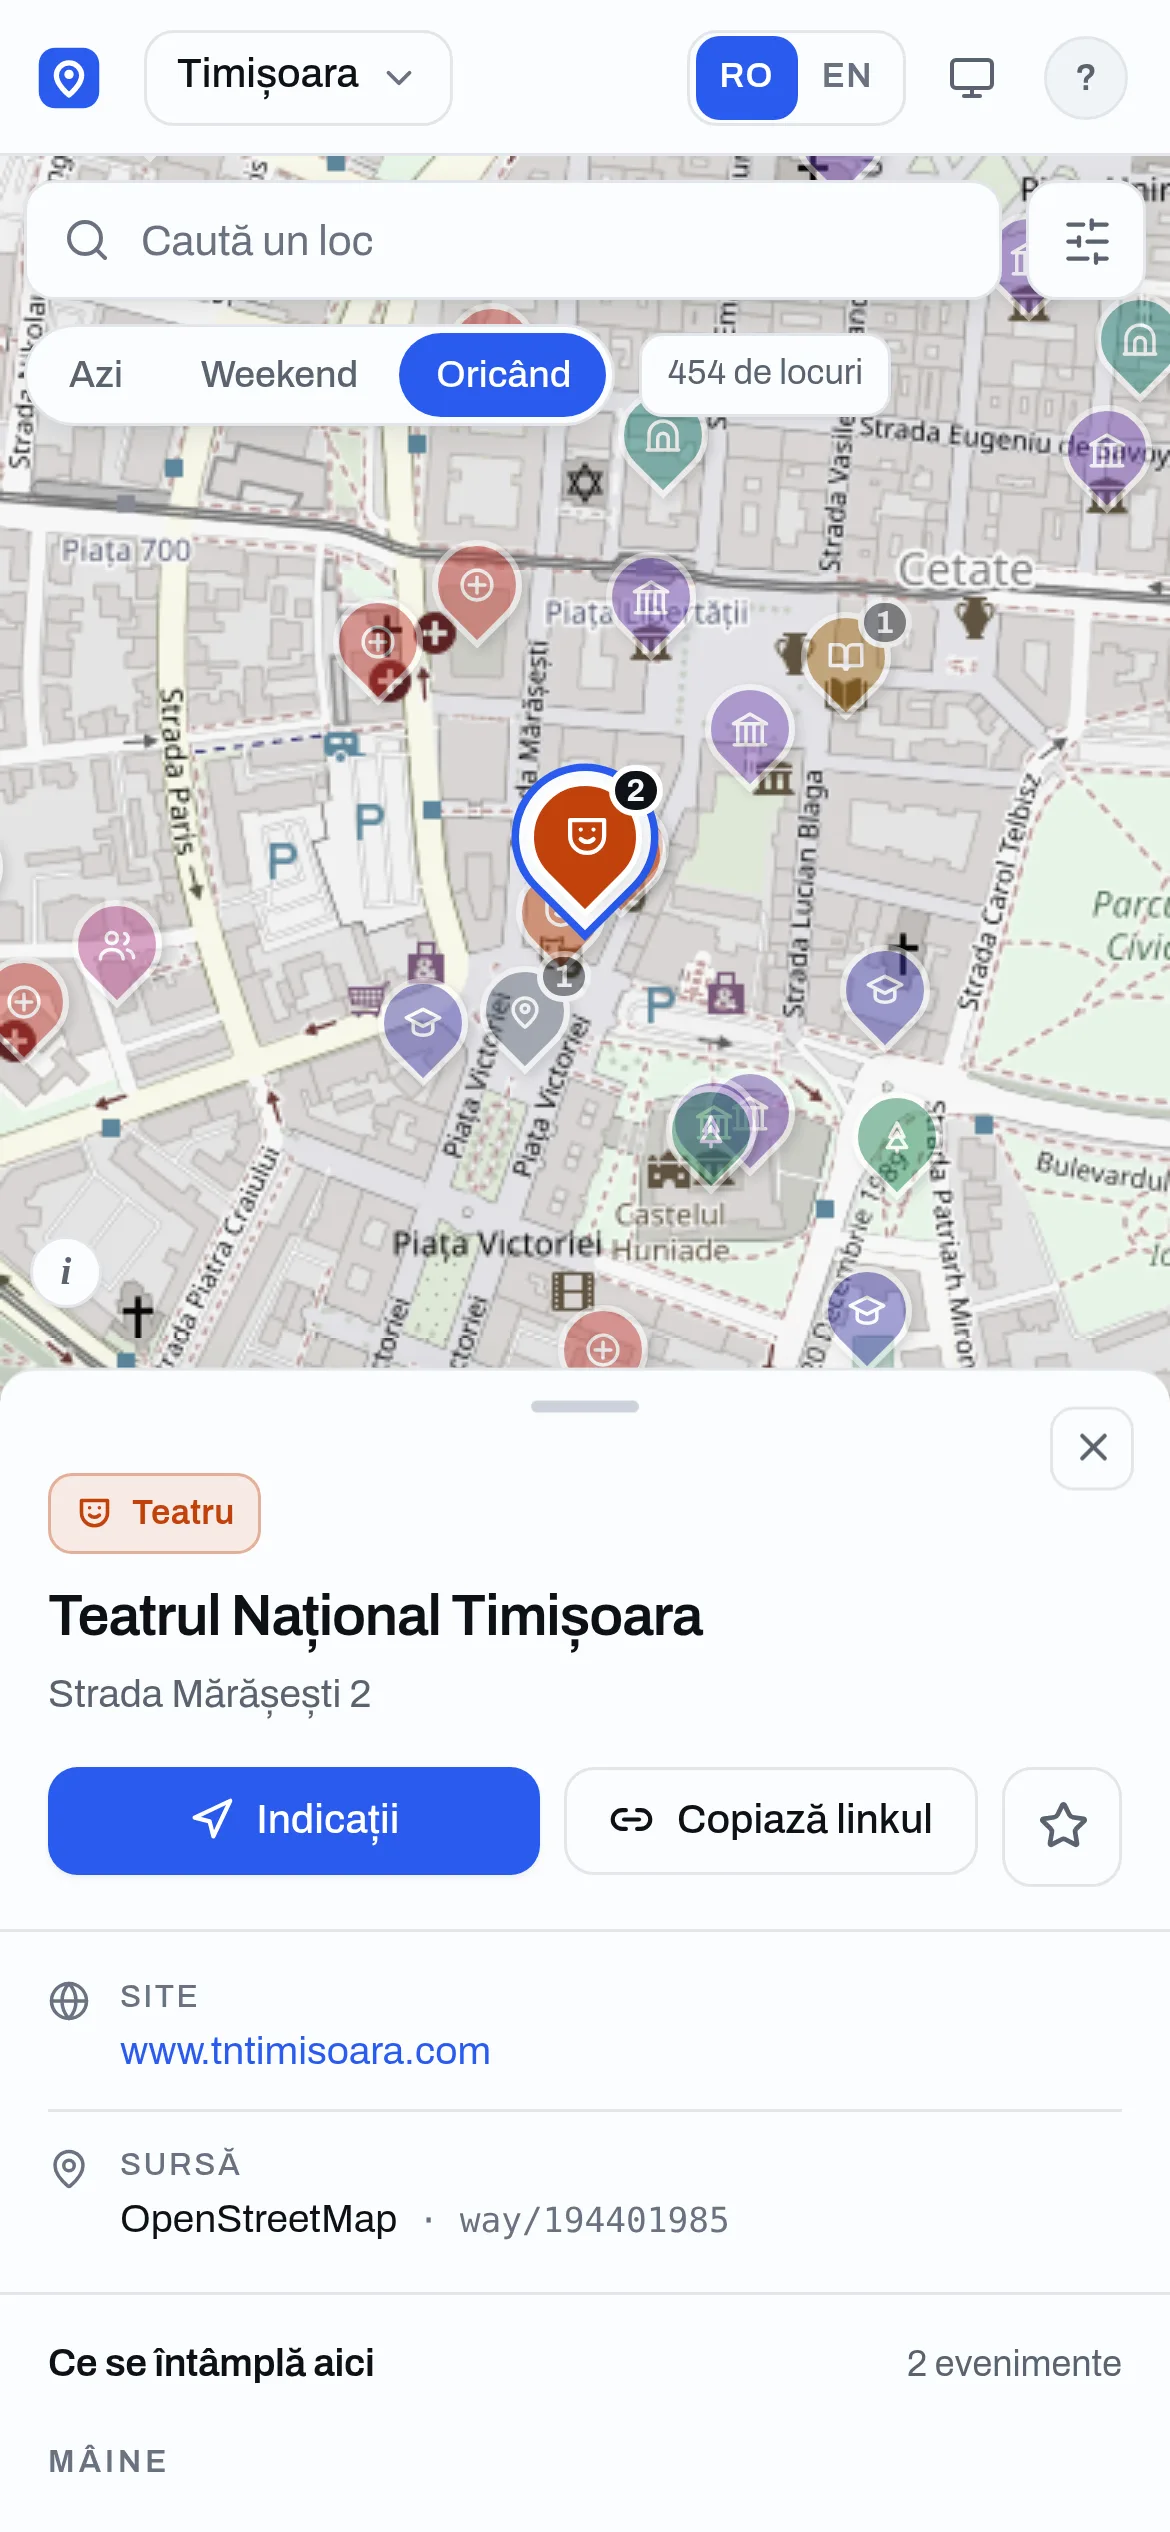
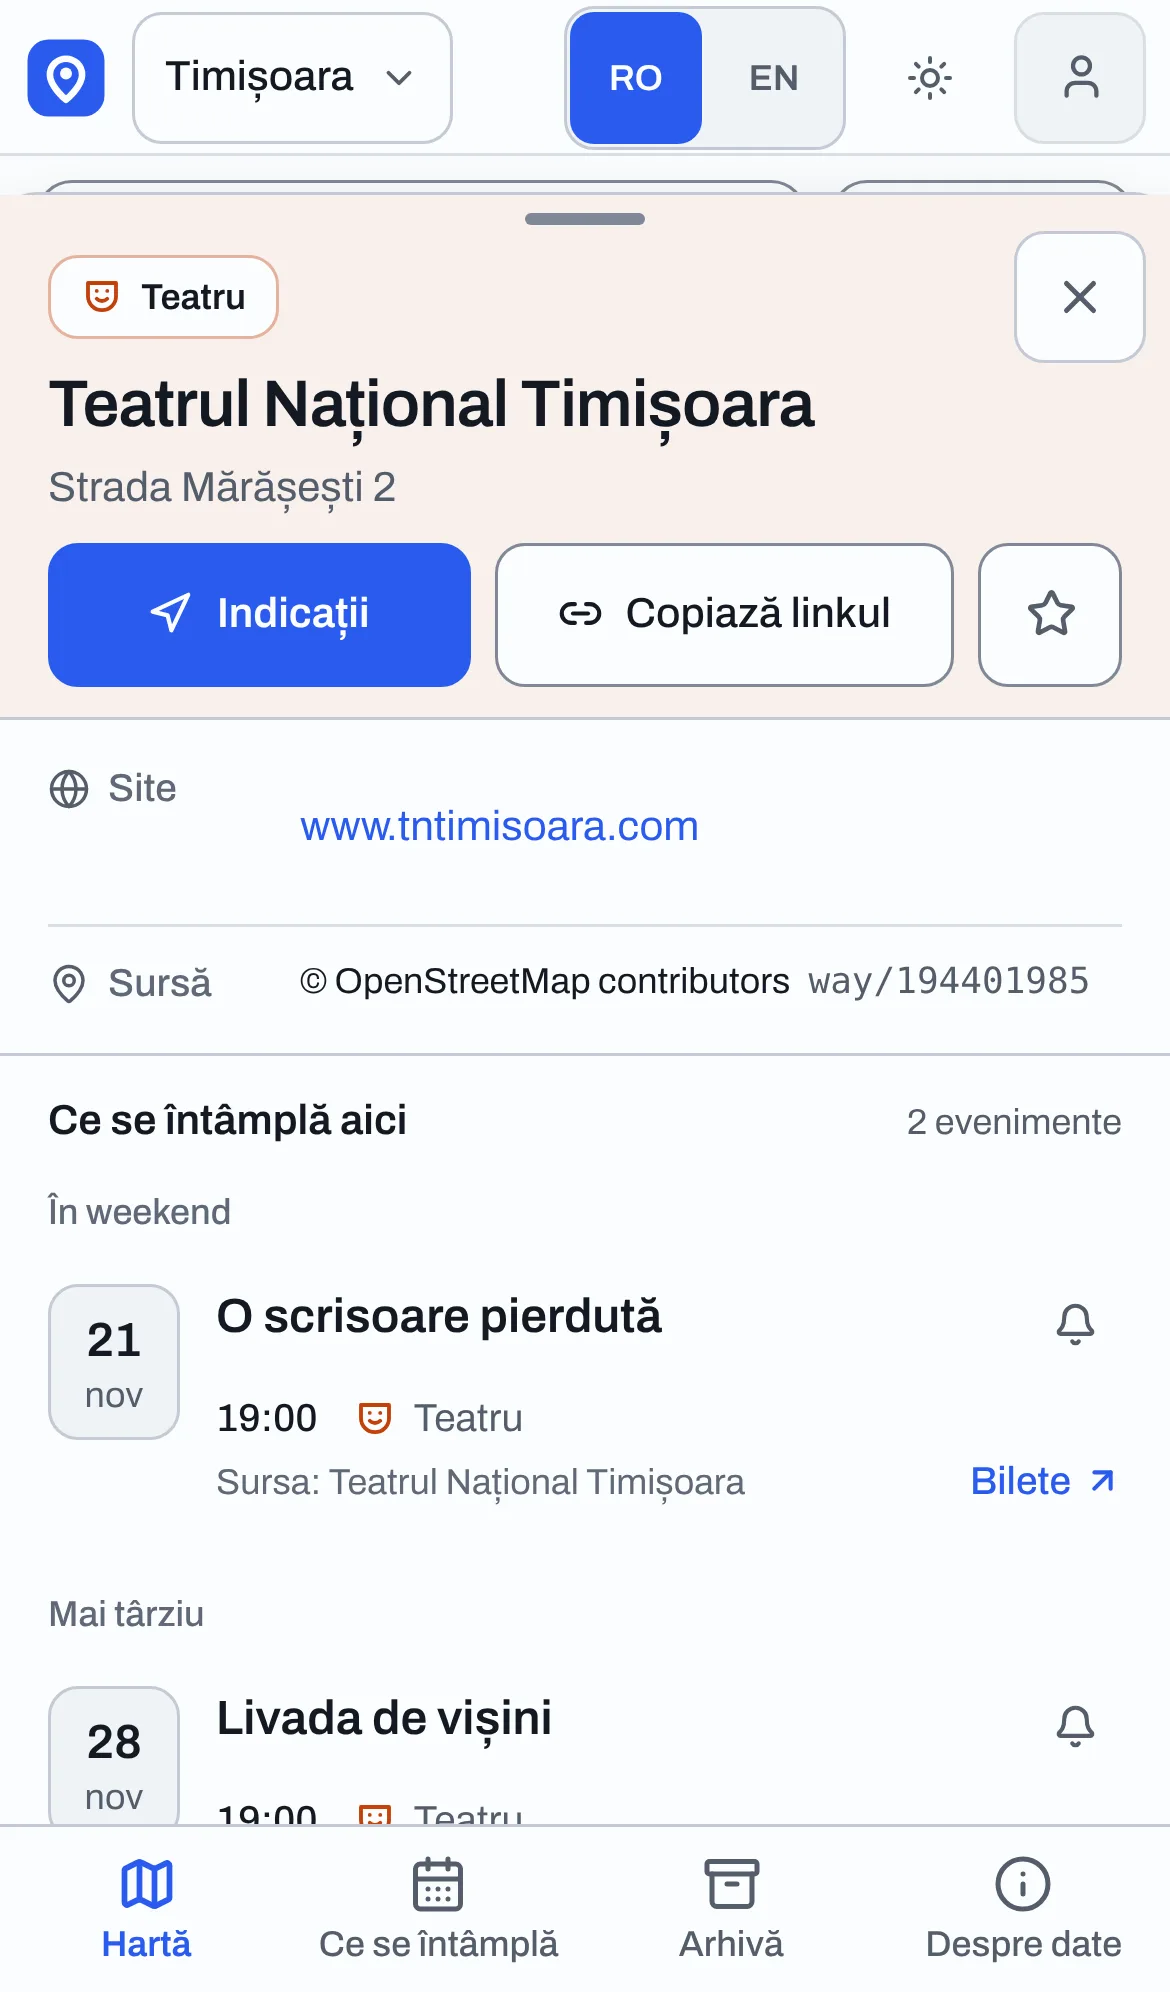
docs: the README after the redesign, with What's on and the phone sheet retaken
whats-on.webp and place-phone.webp show the 2026-11-13 redesign. The hero, the dark phone map and the GIF still predate it: the capture machine could not reach the tile servers, and shots.md marks them for a retake with the steps.

README: status, the URL-kept filters, the source registry, prm's own accounts with Ward optional. getting-started: PUBLIC_ORIGIN is required, running on other ports, npm run check, the e2e suite against a production build, npm run sources.

Committed from an interrupted run: the full check was not re-run.

Claude-Session: https://claude.ai/code/session_01RnCo6KceG18CeLXhzKq2En

diff --git a/README.md b/README.md
@@ -6,18 +6,18 @@ A map of the parks, libraries, clinics, museums, town halls and other public pla
   <img src="docs/images/hero.webp" width="100%" alt="CivicMap on a laptop: a street map of central Timișoara covered in coloured category pins, with the panel for Muzeul de Artă open on the right showing its hours, phone, website and upcoming events grouped under Today, This weekend and Later">
 </p>
 
-**Status:** Proof of concept, deployed at `/prm/` since 2026-10-07. On 2026-10-09 the live database had no places loaded yet, so the pictures here come from a local copy running the seed data. The places are real OpenStreetMap data; every event is synthetic until the first real event feeds are added.
+**Status:** Proof of concept, deployed at `/prm/` since 2026-10-07. The redesign of 2026-11-13 and the rest of the work since 2026-11-10 are built and wait for a deploy. The places are real OpenStreetMap data; every event is synthetic until the first real event feeds are added. When last checked, on 2026-10-09, the live database had no places loaded, so the pictures here come from a local copy running the seed data.
 
 ## What it does
 
 - Puts each city's public places on one map, from OpenStreetMap, with pins clustered so the whole city stays readable.
 - Opens a place to show what is on there, grouped Today, Tomorrow, This weekend and Later. A ticket link appears only when the publisher gave one.
 - Lists everything coming up in the city on a What's on page, and past events on an Archive page.
-- Filters by category, by timing and by an area you draw on the map. The same filters drive the map and the list.
-- Lets a signed-in user follow places and save events, then sends an in-app and email notice when a followed place gets a new event, and a reminder the day before a saved one.
+- Filters by category, by timing and by an area you draw on the map. The same filters drive the map and the list, and the map keeps them in its URL, so a copied link opens the same view.
+- Lets a signed-in user follow places and save events, with an in-app notice when a followed place gets a new event and a reminder the day before a saved one. Accounts linked to Ward get the same notices by email.
 - Holds events from public calendar feeds in an admin review queue until a person accepts them.
 
-Most event apps are a feed of listings with a map added on, and a listing disappears once it is over. Here the place is what you look at, so the map is still useful in a week when nothing is on. Events come only from the venues' and the city's own published calendars, never from a ticket seller's site. It covers two cities and does not sell or book anything.
+Most event apps are a feed of listings with a map added on, and a listing disappears once it is over. Here the place is what you look at, so the map is still useful in a week when nothing is on. Events come only from the venues' and the city's own published calendars, never from a ticket seller's site, and every source is credited on the map and the About page from one registry ([DATA_SOURCES.md](DATA_SOURCES.md)). It covers two cities and does not sell or book anything.
 
 ## Screenshots
 
@@ -29,15 +29,17 @@ In the GIF: pick the Museums chip, zoom in, drag the map, then click a pin to op
 
 | A place on a phone, in Romanian, the default language | The city map in the dark theme |
 |---|---|
-| <img src="docs/images/place-phone.webp" width="300" alt="Phone screen in Romanian: the map around Teatrul Național Timișoara with its pin selected, and a bottom sheet showing the theatre's category, address, directions and website"> | <img src="docs/images/map-phone-dark.webp" width="300" alt="Phone screen in the dark theme: numbered cluster pins over a dark street map of Timișoara, with search, timing filter and bottom navigation"> |
+| <img src="docs/images/place-phone.webp" width="300" alt="Phone screen in Romanian: the sheet for Teatrul Național Timișoara pulled up to full height, with its category, address, Directions, Copy link and favourite buttons, its website and OpenStreetMap source, and two upcoming plays under În weekend and Mai târziu, above the bottom tab bar"> | <img src="docs/images/map-phone-dark.webp" width="300" alt="Phone screen in the dark theme: numbered cluster pins over a dark street map of Timișoara, with search, timing filter and bottom navigation"> |
 
 | What's on: everything coming up in the city, by day |
 |---|
-| ![The What's on page for Timișoara in English: timing and category filters, then events under Today, Tomorrow and This weekend, each with its time, category, place and source](docs/images/whats-on.webp) |
+| ![The What's on page for Timișoara in English: a band with the timing switch, category chips and the event count, then one card of events under Today, This weekend and Later, each with its date, time, category, place and source, and a Tickets link where the source gave one](docs/images/whats-on.webp) |
+
+The phone sheet and What's on show the current design. The hero, the GIF and the dark map were taken on 2026-10-09, before the redesign moved the search and filters into a band above the map and the place panel to the left; they wait for a retake ([docs/images/shots.md](docs/images/shots.md)).
 
 ## How it works
 
-Three npm workspaces. `shared` holds the Zod schemas and types that both sides compile against. `backend` is a Fastify API on SQLite through Drizzle ORM; it serves places and events, runs the OpenStreetMap sync and the event pipeline, and sends the daily reminders. `ui` is a React single-page app built on React Router, Leaflet and TanStack Query, served under `/prm/`. Sign-in belongs to Ward, the shared sign-in service the owner's apps use; prm checks Ward's tokens and grants and stores no passwords or email addresses.
+Three npm workspaces. `shared` holds the Zod schemas and types that both sides compile against, and the registry of data sources. `backend` is a Fastify API on SQLite through Drizzle ORM, split by feature; it serves places and events, runs the OpenStreetMap sync and the event pipeline, and sends the daily reminders. `ui` is a React single-page app built on React Router, Leaflet and TanStack Query, served under `/prm/`. Accounts are prm's own: a username and password, and no email address. "Sign in with Ward", the shared sign-in service the owner's apps use, is an optional second way in.
 
 Places and events reach the map by different routes:
 
@@ -51,7 +53,7 @@ More on the docs site: [architecture](corpus/wiki/architecture.md), [ingestion](
 
 ## Run it locally
 
-Requires Node 24; tested with 24.14. The public map needs nothing else, and signing in, favourites and notifications run on prm's own local accounts. "Sign in with Ward" is optional and needs a local Ward, which [docs/getting-started.md](docs/getting-started.md) covers.
+Requires Node 24. The public map needs nothing else, and signing in, favourites and notifications run on prm's own local accounts. "Sign in with Ward" is optional and needs a local Ward, which [docs/getting-started.md](docs/getting-started.md) covers.
 
 ```bash
 npm install
@@ -61,16 +63,16 @@ npm run db:migrate -w backend && npm run db:seed -w backend   # offline: both ci
 npm run dev                                                   # API on :3001, app on :5173
 ```
 
-Then open <http://localhost:5173/prm/>. Env vars, sign-in, the admin, tests and the docs site: [docs/getting-started.md](docs/getting-started.md).
+Then open <http://localhost:5173/prm/>. Env vars, other ports, sign-in, the admin, tests and the docs site: [docs/getting-started.md](docs/getting-started.md).
 
 ## Project layout
 
 | Path | What lives there |
 |---|---|
-| `shared/` | Zod schemas and the TypeScript types the app and API share |
-| `backend/` | Fastify API, database schema and migrations, OSM sync, event pipeline, seed |
+| `shared/` | Zod schemas, the TypeScript types the app and API share, and the source registry |
+| `backend/` | Fastify API by feature, database schema and migrations, OSM sync, event pipeline, seed |
 | `ui/` | The React app, plus [PRODUCT.md](ui/PRODUCT.md) on who it is for and [DESIGN.md](ui/DESIGN.md) with the design system |
-| `e2e/` | Playwright tests, with a stand-in Ward |
+| `e2e/` | Playwright tests, run against a production build and a fresh seeded database |
 | `docs/` | The Docusaurus docs site, and the images in this README |
 | `corpus/` | The project wiki: decisions, status and the briefs that built it |
 | `infrastructure/` | Dockerfile and Compose file the deploy builds the API from |

diff --git a/docs/images/shots.md b/docs/images/shots.md
@@ -4,12 +4,18 @@ How each image was made, so the next refresh is a re-run. Re-take an image when 
 
 | File | Shows | How to reach that state | Viewport | Data | Taken |
 |---|---|---|---|---|---|
-| hero.webp | Desktop map of central Timișoara with the Muzeul de Artă panel open | `npm run dev`, open `/prm/places/47dfbdaa-1691-551a-8a88-df59aa25e62f`, switch to EN | 1440×900 @2x | seed | 2026-10-09 |
-| whats-on.webp | The What's on page for Timișoara | `/prm/whats-on`, EN | 1120×900 @2x | seed | 2026-10-09 |
-| place-phone.webp | Teatrul Național Timișoara's bottom sheet, in Romanian | `/prm/places/7af95f1d-1c7e-58d5-9fc9-125c2bd8c219`, RO | iPhone 14 emulation | seed | 2026-10-09 |
-| map-phone-dark.webp | The city map on a phone, dark theme | `/prm/`, RO, theme menu → Întunecat | iPhone 14 emulation | seed | 2026-10-09 |
-| map-flow.gif | City view → Museums chip → zoom in twice → drag → click the Muzeul de Artă pin | `/prm/`, EN, then those steps | 1280×800, GIF 800 px wide | seed | 2026-10-09 |
+| hero.webp | Desktop map of central Timișoara with the Muzeul de Artă panel open | `npm run dev`, open `/prm/places/47dfbdaa-1691-551a-8a88-df59aa25e62f`, switch to EN | 1440×900 @2x | seed | 2026-10-09, before the redesign: retake |
+| whats-on.webp | The What's on page for Timișoara | `/prm/whats-on`, EN | 1120×900 @2x | seed | 2026-11-16 |
+| place-phone.webp | Teatrul Național Timișoara's sheet pulled up to full height, in Romanian | `/prm/places/7af95f1d-1c7e-58d5-9fc9-125c2bd8c219`, RO, then the grab bar ("Extinde detaliile locului") | iPhone 14 emulation | seed | 2026-11-16 |
+| map-phone-dark.webp | The city map on a phone, dark theme | `/prm/`, RO, theme menu → Întunecat | iPhone 14 emulation | seed | 2026-10-09, before the redesign: retake |
+| map-flow.gif | City view → Museums chip → zoom in twice → drag → click the Muzeul de Artă pin | `/prm/`, EN, then those steps | 1280×800, GIF 800 px wide | seed | 2026-10-09, before the redesign: retake |
 | ingestion.svg | The ingestion diagram from the docs site | open `docs/static/diagrams/ingestion.html`, light theme, Export → SVG | vector | `docs/diagrams/ingestion.json` | 2026-10-09 |
+
+## Why three images predate the redesign
+
+The 2026-11-13 redesign moved the search and filters into a band above the map and the place panel to the left, so the hero, the dark phone map and the GIF no longer match the app. They were not retaken on 2026-11-16 because the capture machine could not reach the tile servers (`tile.openstreetmap.org`, `basemaps.cartocdn.com`), and without tiles the map is a blank background under the pins. Retake them on a machine that can load the tiles, with the steps below. What's on and the phone sheet at full height show no map, so they were retaken.
+
+The diagram is not a screenshot; `docs/diagrams/ingestion.json` has not changed since it was exported.
 
 ## Data
 
@@ -17,17 +23,20 @@ Everything comes from the seed: `npm run db:migrate -w backend && npm run db:see
 
 ## Screenshots
 
-`agent-browser` against `npm run dev`, then WebP:
+A Playwright script against `npm run dev`, kept outside the repo, then WebP. For each image:
+
+1. Open a browser context with the time zone `Europe/Bucharest`, and either a 1440×900 or 1120×900 viewport at `deviceScaleFactor: 2`, or Playwright's `devices["iPhone 14"]`.
+2. Before the page loads, set the language in `localStorage`: `civicmap-lang` to `"en"` or `"ro"` (JSON strings). For the dark shot, set `vite-ui-theme` to `"dark"` the same way. Light is the default.
+3. Open the route from the table, wait for network idle and about a second more, blur the focused element and move the mouse to a corner, so no focus ring or hover shows.
+4. Take a viewport screenshot (not full-page), then convert it:
 
 ```bash
-agent-browser --session prm set viewport 1440 900 2
-agent-browser --session prm open http://localhost:5173/prm/places/47dfbdaa-1691-551a-8a88-df59aa25e62f
-agent-browser --session prm wait --load networkidle
-agent-browser --session prm screenshot /abs/path/hero.png
-ffmpeg -y -loglevel error -i hero.png -c:v libwebp -quality 76 hero.webp
+ffmpeg -y -loglevel error -i hero.png -c:v libwebp -quality 82 hero.webp
 ```
 
-Click RO or EN in the header first; the choice is kept in `localStorage` (`civicmap-lang`). Blur the focused element before capturing so no focus ring shows. Phone shots use `set device "iPhone 14"` instead of the viewport line. The other WebPs use quality 82; the hero uses 76 to stay under 400 KB.
+Keep each file under 400 KB; lower the quality for the hero if it goes over. Look at every image, and at a 360 px wide copy, before committing it.
+
+`e2e/shots.spec.ts` takes every screen at 1280 and 390 px in both themes (`SHOTS_DIR=<dir> npx playwright test shots`). Those are for comparing a build with its design comps, not for the README, but the spec is a quick way to see every screen at once.
 
 ## The GIF
 
@@ -48,4 +57,4 @@ ffmpeg -f concat -i dec.ffconcat \
 
 That is ffmpeg 4.4; on ffmpeg 5 or later use `-fps_mode vfr` instead of `-vsync vfr`.
 
-The result is 23 frames over about 12 s, about 4 MB.
+The result is 23 frames over about 12 s, about 4 MB. On the redesigned map the Museums chip sits in the band above the map, and the place opens in the column on the left.

diff --git a/docs/getting-started.md b/docs/getting-started.md
@@ -4,7 +4,7 @@ The full local setup. The [main README](../README.md) has the short version.
 
 ## Prerequisites
 
-- Node 24 and npm. Tested with Node 24.14.1.
+- Node 24 and npm. Last checked with Node 24.22.1 on 2026-11-16.
 - The public map needs nothing else. SQLite runs inside the API process, and the seed works offline.
 - Signing in, favourites, notifications and the admin work on prm's own local accounts, so they need nothing else. "Sign in with Ward" is optional and needs the local Ward container from the sibling `wzd_auth` repo, in `wzd_auth/infrastructure/local/`. Its README covers starting it.
 
@@ -21,7 +21,7 @@ cp .env.example .env
 
 | Variable | Default in `.env.example` | Purpose |
 |---|---|---|
-| `PUBLIC_ORIGIN` | `http://localhost:5173` | The origin the browser loads prm from, no path. The session cookie's `Secure` flag and the same-origin check on sign-in posts depend on it. |
+| `PUBLIC_ORIGIN` | `http://localhost:5173` | Required: the API does not start without it. The origin the browser loads prm from, no path. The session cookie's `Secure` flag and the same-origin check on sign-in posts depend on it. |
 | `WARD_OIDC_ISSUER` | unset (commented out) | Optional. Ward's issuer, `http://localhost:8792/ward-api/oidc` locally. Unset, prm runs on local accounts only. |
 | `WARD_OIDC_CLIENT_ID`, `WARD_OIDC_CLIENT_KEY` | unset | prm's client id (`prm`) and its private key at Ward. The key is a secret. Ward's `seed.mjs` writes both. |
 | `WARD_OIDC_REDIRECT_URI` | unset | The callback as the browser reaches it, `http://localhost:5173/prm-api/auth/ward/callback`. |
@@ -60,6 +60,15 @@ This starts the API on port 3001 under `tsx watch` and the UI on port 5173 under
 
 If another app already holds port 3001, the API exits with `EADDRINUSE`. Pick another port for both processes, for example `PORT=3011 npm run dev`; the UI's proxy follows `PORT`.
 
+To move the app off 5173 as well, start the two halves yourself, each in its own terminal, and point `PUBLIC_ORIGIN` at the new origin (sign-in checks it):
+
+```bash
+PORT=3011 PUBLIC_ORIGIN=http://localhost:5180 npm run dev -w backend
+PORT=3011 npm run dev -w ui -- --port 5180 --strictPort
+```
+
+Then open <http://localhost:5180/prm/>. A variable set in the shell wins over the same one in `.env`.
+
 ## 4. Sign in and use the admin
 
 Sign in with a local account:
@@ -74,13 +83,16 @@ The admin is at <http://localhost:5173/prm/admin> and needs the `admin` role. It
 ## 5. Test
 
 ```bash
+npm run check        # typecheck, lint, format check, conventions, then the Vitest suite
 npm test             # Vitest: unit tests and Fastify .inject() API tests
-npm run typecheck    # all three workspaces
+npm run typecheck    # shared, backend, ui and the e2e specs
 npm run build        # shared, backend and ui
 npm run test:e2e     # Playwright, see below
 ```
 
-`npm run test:e2e` starts its own API on port 3101, a stand-in Ward on 3102 and the UI on 5174, against a fresh database it migrates and seeds on every run. It never touches your dev database; `playwright.config.ts` has the details. It needs Playwright's Chromium installed. `npm run test:watch` is the TDD loop and `npm run test:cov` adds coverage.
+`npm run test:e2e` starts its own API on port 3101 and a production build of the UI under `vite preview` on 5174, against a fresh database it migrates and seeds on every run, with a demo user and an admin whose password is made up per run. It never touches your dev database and needs no Ward; `playwright.config.ts` has the details. It needs Playwright's Chromium installed. `npm run test:watch` is the TDD loop and `npm run test:cov` adds coverage.
+
+`npm run sources` regenerates `DATA_SOURCES.md` from the registry in `shared/src/sources.ts`; a test fails when the two disagree.
 
 ## 6. Build the docs site
 
